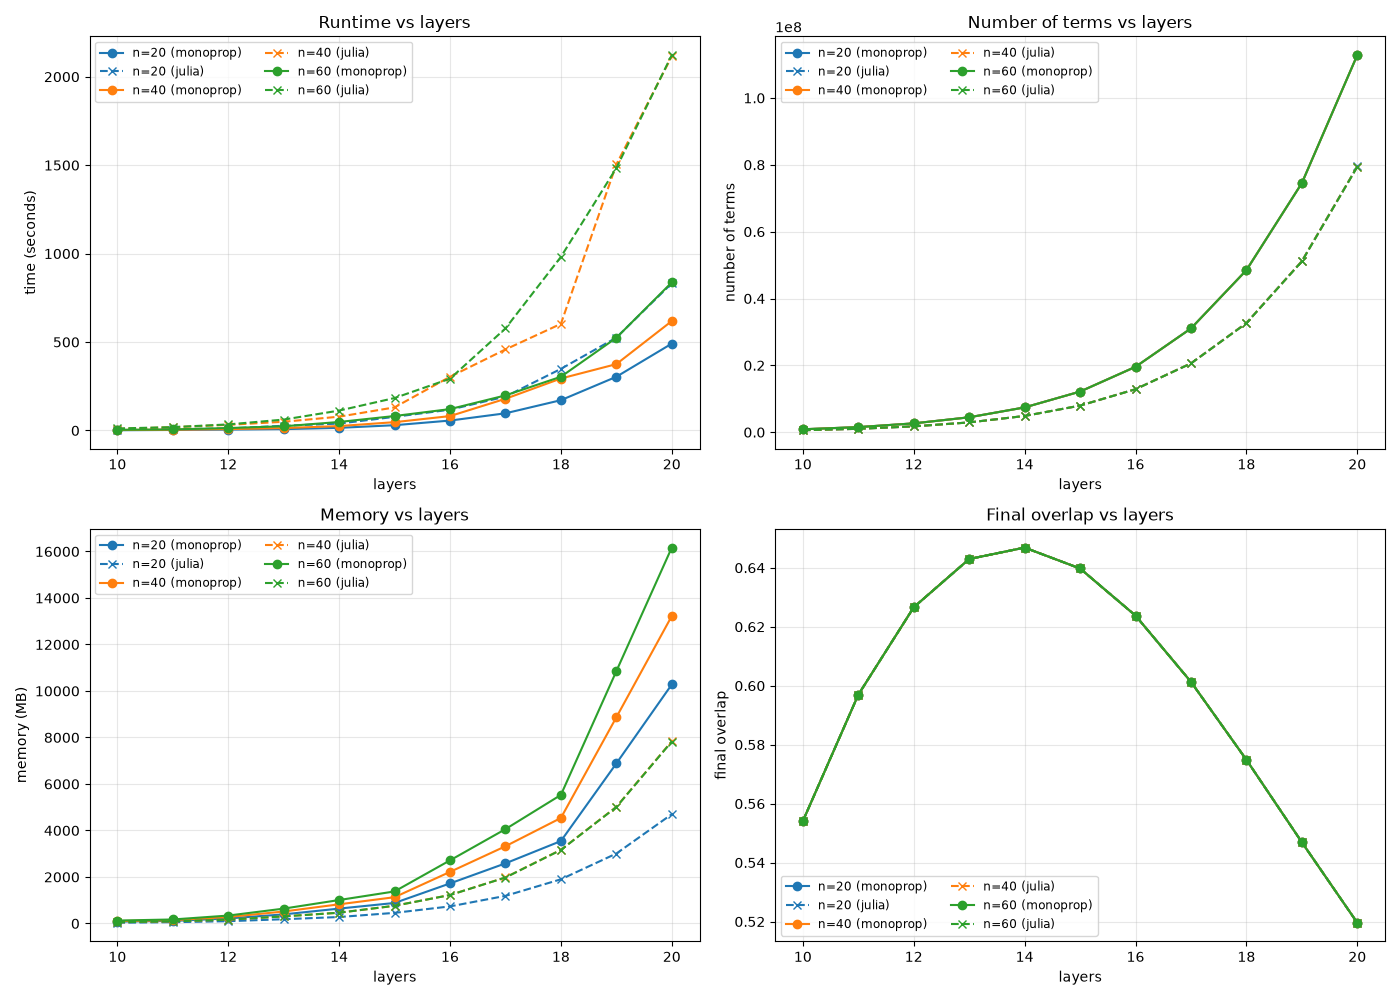
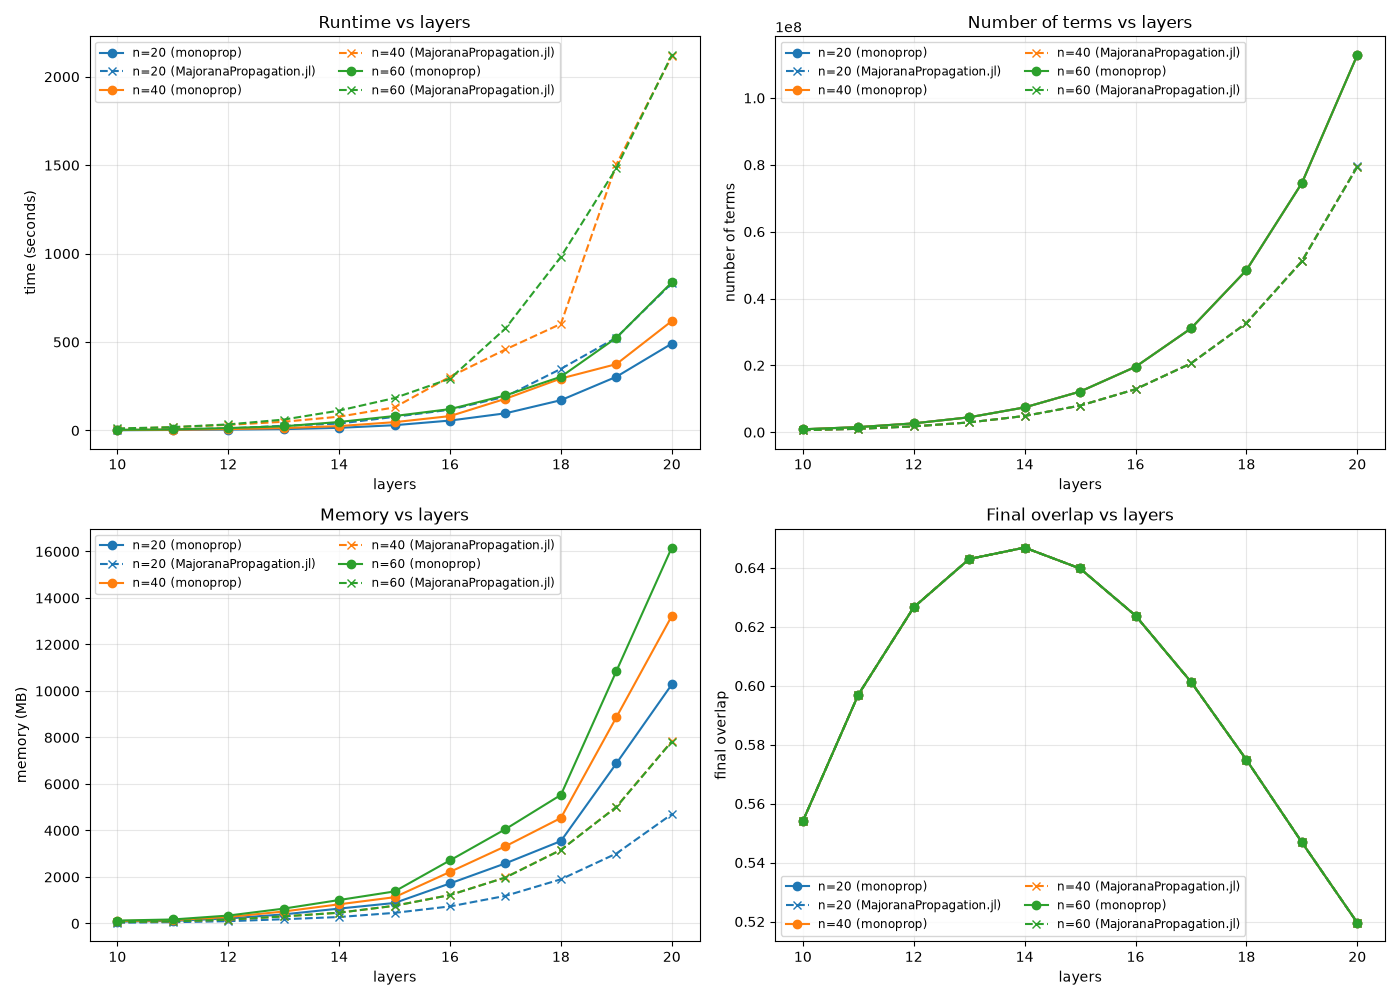
docs: move figures to the top of the page

diff --git a/benches/third_party/majorana_prop/plot_results.py b/benches/third_party/majorana_prop/plot_results.py
@@ -41,7 +41,7 @@ def load_benchmark(path: Path, source: str) -> pd.DataFrame:
 
 def plot_metric(ax, data: pd.DataFrame, metric: str, ylabel: str) -> None:
     """Plot ``metric`` vs. layers for each n_spin/source combination onto ``ax``."""
-    styles = {"monoprop": "-o", "julia": "--x"}
+    styles = {"monoprop": "-o", "MajoranaPropagation.jl": "--x"}
     colors = plt.cm.tab10.colors
     for i, n_spin in enumerate(sorted(data["n_spin"].unique())):
         color = colors[i % len(colors)]
@@ -90,7 +90,7 @@ def main() -> None:
     args = parser.parse_args()
 
     monoprop_df = load_benchmark(args.monoprop_results, "monoprop")
-    julia_df = load_benchmark(args.julia_results, "julia")
+    julia_df = load_benchmark(args.julia_results, "MajoranaPropagation.jl")
     df = pd.concat([monoprop_df, julia_df], ignore_index=True)
 
     args.output_dir.mkdir(parents=True, exist_ok=True)
